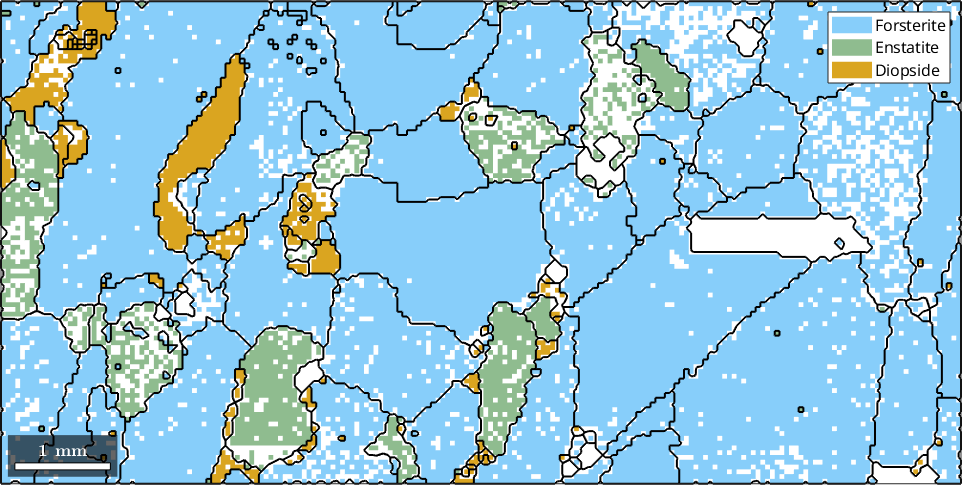
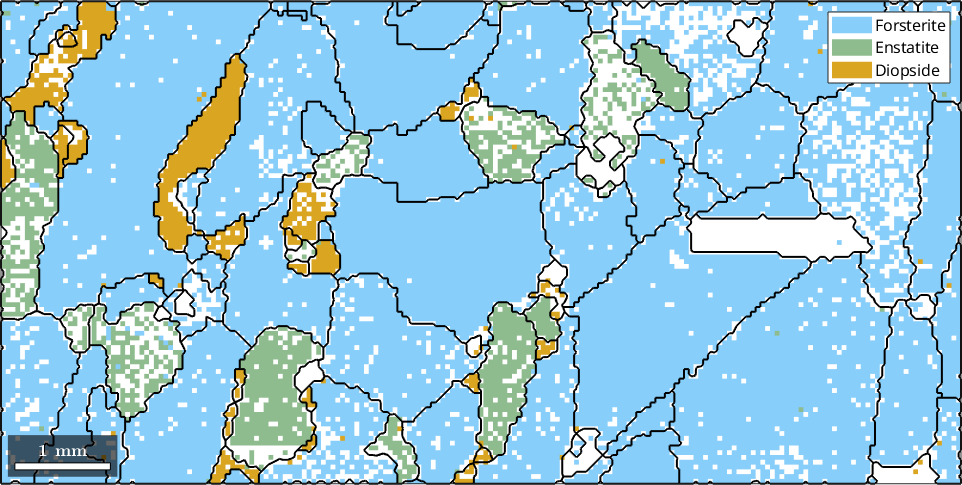
minor

diff --git a/pages/documentation_matlab/EBSDDenoising.html b/pages/documentation_matlab/EBSDDenoising.html
@@ -30,20 +30,14 @@ To make changes, update the MATLAB code and republish this document.
 % import the data
 mtexdata twins
 
-% consider only indexed data
-ebsd = ebsd('indexed');
-
 % reconstruct the grain structure
-[grains,ebsd.grainId,ebsd.mis2mean] = calcGrains(ebsd,'angle',10*degree);
-
-% remove some very small grains
-ebsd(grains(grains.grainSize<5)) = [];
-
-% redo grain segmentation
-[grains,ebsd.grainId] = calcGrains(ebsd,'angle',10*degree);
+[grains,ebsd.grainId] = calcGrains(ebsd('indexed'),'angle',10*degree,'minPixel',5);
 
 % smooth grain boundaries
 grains = smooth(grains,5);
+
+% consider only indexed data
+ebsd = ebsd('indexed');
 
 % plot the orientation map
 ipfKey = ipfColorKey(ebsd.CS.properGroup);
@@ -149,9 +143,6 @@ hold on
 plot(grains.boundary,'linewidth',2)
 hold off
 {% endhighlight %}
-<center>
-{% include inline_image.html file="EBSDDenoising_05.png" %}
-</center>
 <p>The disadvantage of the median filter is that it leads to cartoon like images which suffer from the staircase effect.</p>
 <h2 id="8">The Kuwahara Filter</h2>
 <p>Another filter that was designed to be robust against outliers and does not smooth away subgrain boundaries is the Kuwahara filter. However, in practical applications the results are often not satisfactory.</p>
@@ -172,7 +163,7 @@ plot(grains.boundary,'linewidth',2)
 hold off
 {% endhighlight %}
 <center>
-{% include inline_image.html file="EBSDDenoising_06.png" %}
+{% include inline_image.html file="EBSDDenoising_05.png" %}
 </center>
 <h2 id="9">The Smoothing Spline Filter</h2>
 <p>All the above filters are so called sliding windows filters which consider for the denoising operation only neighboring orientations within a certain window. The next filters belong to the class of variational filters which determine the denoised orientation map as the solution of an minimization problem that is simultaneously close to the original map and "smooth". The resulting orientation map heavily depends on the specific definition of "smooth" and on the regularization parameter which controls the trade of between fitting the original data and forcing the resulting map to be smooth.</p>
@@ -201,7 +192,7 @@ ans =
     4.6123
 {% endhighlight %}
 <center>
-{% include inline_image.html file="EBSDDenoising_07.png" %}
+{% include inline_image.html file="EBSDDenoising_06.png" %}
 </center>
 <h2 id="10">The Halfquadratic Filter</h2>
 <p>In the default setting the @halfQuadraticFilter uses definition of smoothness the <a href="https://en.wikipedia.org/wiki/Total_variation_denoising">total variation</a> functional. This functional was developed to preserve subgrain boundaries. Similarly as the @medianFilter it tends to carton like images and staircasing.</p>
@@ -221,7 +212,7 @@ plot(grains.boundary,'linewidth',2)
 hold off
 {% endhighlight %}
 <center>
-{% include inline_image.html file="EBSDDenoising_08.png" %}
+{% include inline_image.html file="EBSDDenoising_07.png" %}
 </center>
 <h2 id="11">The Infimal Convolution Filter</h2>
 <p>The infimal convolution filter was designed as a compromise between the @splineFilter and the @halfQuadraticFilter. It is still under development and its use is not recommended.</p>
@@ -243,7 +234,7 @@ plot(grains.boundary,'linewidth',2)
 hold off
 {% endhighlight %}
 <center>
-{% include inline_image.html file="EBSDDenoising_09.png" %}
+{% include inline_image.html file="EBSDDenoising_08.png" %}
 </center>
 </div>
 </body>
